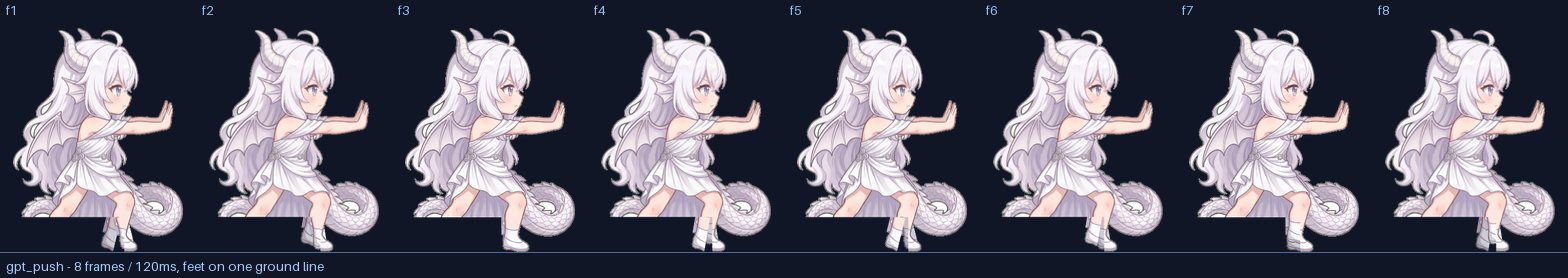
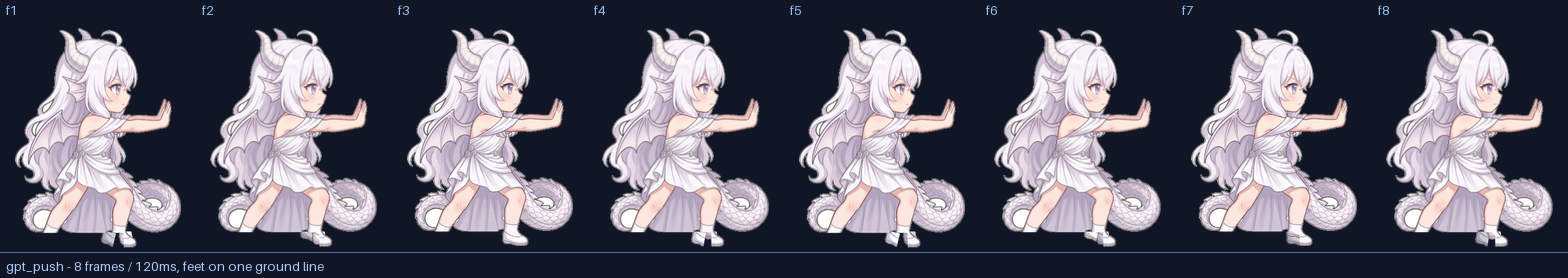
走路预览：清掉抗锯齿残影 + 条带按单元格基线对齐 + gpt_push 腿层上边界下移
- 图集里 alpha 1~48 的抗锯齿残影会让预览里糊出一整块淡色矩形：渲染前统一清零，
  图集生成端也把 <48 的清零、>200 的钉实。
- 8 帧条带改成按单元格基线（CELL_GROUND=406）裁底，脚底永远落在同一条地面线上。
- gpt_push 的长裙/裙摆拖尾盖到小腿：legTop 下移到 372，腿层只驱动小腿与靴子，
  不再把裙摆底部啃出一条横边。

tools/engine 64/65（仅既有 ERR_INVALID_URL）；tools/remotion-engine 3/4（仅既有 whale_point.png 缺失）。

Changed region(s): [[0.0, 0.1151, 1.0, 0.9209]]

diff --git a/tools/remotion-engine/render_walk_clips.py b/tools/remotion-engine/render_walk_clips.py
@@ -24,6 +24,7 @@ OUT = os.path.join(ART, 'preview')
 
 CELL_W, CELL_H = 384, 416
 ART_H = 372          # 图集里角色美术高度（脚底 = GROUND_Y）
+CELL_GROUND = 406    # 单格内的脚底基线，条带按这条线对齐
 FPS = 25
 DUR = 3.0
 STAGE_W, STAGE_H = 640, 400
@@ -154,7 +155,9 @@ def render_strip(char, atlas_name):
     f = font(13)
     d.line([(0, pad_top + chh), (cw * 8, pad_top + chh)], fill=(78, 106, 152))
     for i, (cell, bbox) in enumerate(cells):
-        art = scaled(cell, bbox, chh - 8)
+        # 底边一律取单元格基线，避免个别帧多出一两像素把"脚"顶高
+        tight = cell.crop((bbox[0], bbox[1], bbox[2], CELL_GROUND))
+        art = scaled(tight, (0, 0, tight.width, tight.height), chh - 8)
         # 让脚底落在统一地面线上
         x = i * cw + (cw - art.width) // 2
         y = pad_top + chh - art.height
